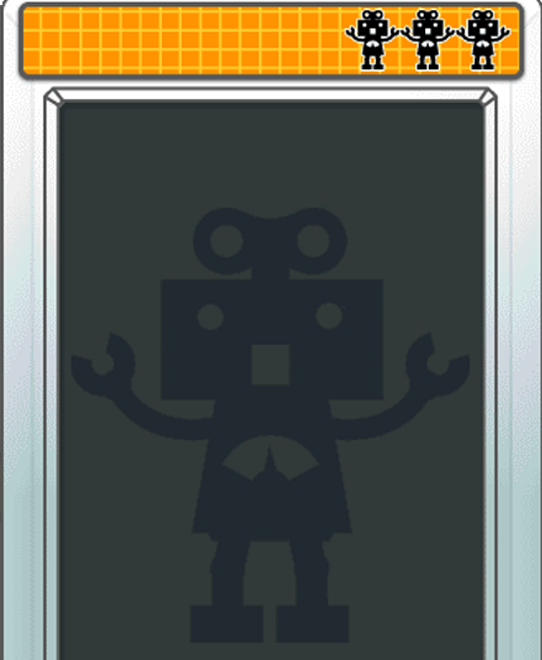
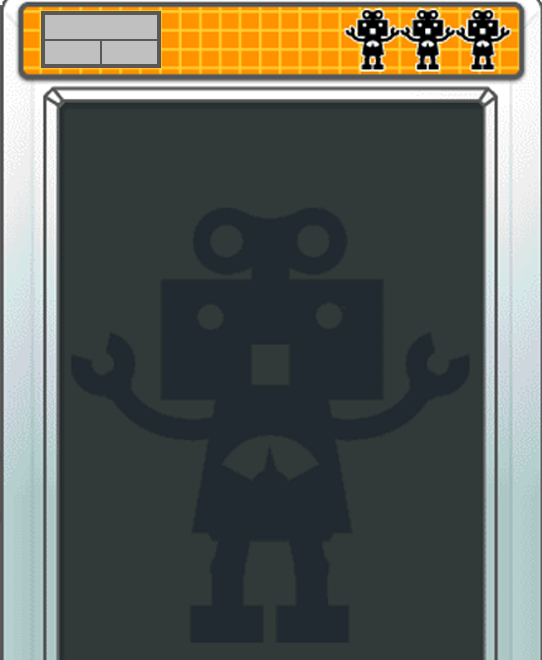
feat(GameScreen): recode using Scene2D

Changed region(s): [[0.059, 0.0, 0.2952, 0.1212]]

diff --git a/core/src/main/java/entity/GameScreen.java b/core/src/main/java/entity/GameScreen.java
@@ -3,41 +3,97 @@ package entity;
 import com.badlogic.gdx.Gdx;
 import com.badlogic.gdx.graphics.g2d.BitmapFont;
 import com.badlogic.gdx.graphics.g2d.SpriteBatch;
-import com.badlogic.gdx.graphics.g2d.freetype.FreeTypeFontGenerator;
 import com.badlogic.gdx.graphics.Color;
-
+import com.badlogic.gdx.scenes.scene2d.Stage;
+import com.badlogic.gdx.scenes.scene2d.ui.Label;
+import com.badlogic.gdx.scenes.scene2d.ui.Skin;
+import com.badlogic.gdx.utils.viewport.ExtendViewport;
+import com.badlogic.gdx.utils.viewport.Viewport;
 
 
 public class GameScreen {
-    private SpriteBatch batch;
+    //Scene2D stuff
+    private Stage stage;
+    private Viewport viewport;
+    private Skin skin;
     private BitmapFont font;
+
+    //Label
+    private Label scoreLabel;
+    private Label livesLabel;
+    private Label timeLabel;
+
+    //Score
     private ScoreManager scoreManager;
 
+    //Constants
+    private final float RSCORE_X = 200f;
+    private final float SCORE_Y = 970f;
+    private final float LIVES_X = 80f;
+    private final float LIVES_Y = 900f;
+    private final float TIME_X = 152f;
+    private final float TIME_Y = 900f;
+
+    //Constructor
     public GameScreen(ScoreManager scoreManager) {
-        batch = new SpriteBatch();
         this.scoreManager = scoreManager;
-        FreeTypeFontGenerator generator = new FreeTypeFontGenerator(Gdx.files.internal("fonts\\PressStart2P-Regular.ttf"));
-        FreeTypeFontGenerator.FreeTypeFontParameter parameter = new FreeTypeFontGenerator.FreeTypeFontParameter();
-
-        parameter.size = 28;
-        parameter.color = Color.CYAN;
-        parameter.borderColor = Color.BLACK;
-        parameter.borderWidth = 1;
-        parameter.shadowOffsetX = 1;
-        parameter.shadowOffsetY = -1;
-        parameter.shadowColor = Color.DARK_GRAY;
-        parameter.characters = "0123456789ABCDEFGHIJKLMNOPQRSTUVWXYZabcdefghijklmnopqrstuvwxyz!?.:;,'\"() ";
-
-        font = generator.generateFont(parameter);
-        generator.dispose();
     }
 
-    public void draw(SpriteBatch batch) {
-        font.draw(batch, String.valueOf(scoreManager.getScore()), 8, Gdx.graphics.getHeight() - 8);
+    public void create(){
+        viewport = new ExtendViewport(Gdx.graphics.getWidth(), Gdx.graphics.getHeight());
+        stage = new Stage(viewport, new SpriteBatch());
+        font = new BitmapFont(Gdx.files.internal("ui/F_Retro.fnt"));
+        font.getData().setScale(0.6f);
+
+        skin = new Skin();
+        skin.add("default-font", font);
+
+        // Color
+        Label.LabelStyle uiLabelStyle = new Label.LabelStyle(font, new Color(148f, 148f, 148f, 0.8f));
+        skin.add("default", uiLabelStyle);
+
+        // Labels
+        scoreLabel = new Label("0.0", skin); // Initial text
+        livesLabel = new Label("3", skin);   // Initial text
+        timeLabel = new Label("00:00", skin); // Initial text
+
+        livesLabel.setPosition(LIVES_X, LIVES_Y);
+        timeLabel.setPosition(TIME_X, TIME_Y);
+
+        stage.addActor(scoreLabel);
+        stage.addActor(livesLabel);
+        stage.addActor(timeLabel);
+    }
+
+    public void render() {
+        // Update Text
+        scoreLabel.setText(String.valueOf(scoreManager.getScore()));
+        scoreLabel.pack(); // Recalc size
+        scoreLabel.setPosition(RSCORE_X - scoreLabel.getPrefWidth(), SCORE_Y - scoreLabel.getPrefHeight());
+
+        // Later
+        // livesLabel.setText(String.valueOf(playerLives));
+        // timeLabel.setText(formatTime(gameTimer));
+
+        //Render UI
+        viewport.apply(true);
+        stage.act(Gdx.graphics.getDeltaTime());
+        stage.draw();
+    }
+
+    public void resize(int width, int height) {
+        viewport.update(width, height, true);
     }
 
     public void dispose() {
-        batch.dispose();
-        font.dispose();
+        if (stage != null) stage.dispose();
+        if (skin != null) skin.dispose();
+        if (font != null) font.dispose();
+    }
+
+    // Getter
+    public Stage getStage() {
+        return stage;
     }
 }
+

diff --git a/core/src/main/java/com/main/Main.java b/core/src/main/java/com/main/Main.java
@@ -82,6 +82,7 @@ public class Main extends ApplicationAdapter {
 
         scoreMng = new ScoreManager();
         gameScreen = new GameScreen(scoreMng);
+        gameScreen.create();
     }
 
     public void handleInput() {
@@ -274,6 +275,7 @@ public class Main extends ApplicationAdapter {
     public void resize(int width, int height) {
         // Cập nhật viewport với kích thước cửa sổ mới
         viewport.update(width, height, true);
+        gameScreen.resize(width, height);
     }
 
     public void draw() {
@@ -292,7 +294,7 @@ public class Main extends ApplicationAdapter {
         if (ShieldEffect.isShield()) {
             batch.draw(TextureManager.lineTexture, padding_left_right, 0, SCREEN_WIDTH - 2 * padding_left_right, 5);
         }
-        gameScreen.draw(batch);
+//        gameScreen.draw(batch);
         batch.end();
     }
     @Override
@@ -311,6 +313,7 @@ public class Main extends ApplicationAdapter {
                 ScreenUtils.clear(0, 0, 0, 1);
                 batch.setProjectionMatrix(camera.combined);
                 draw();
+                gameScreen.render();
                 break;
         }
     }
